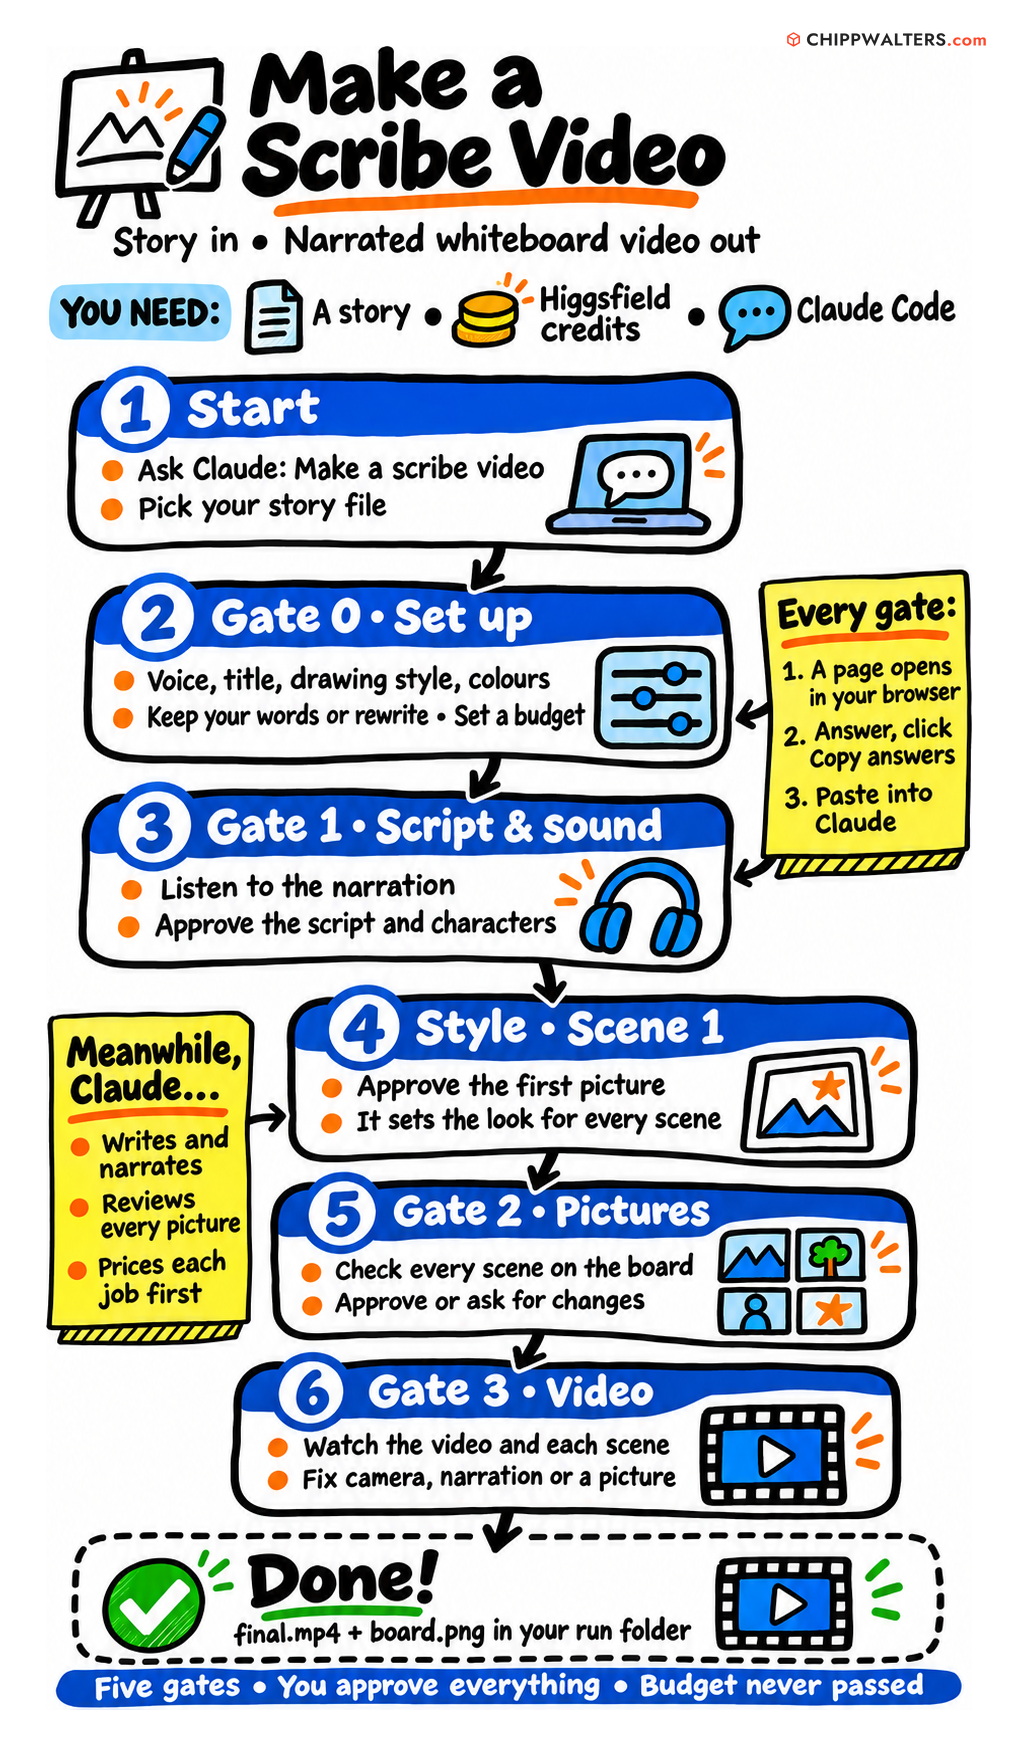
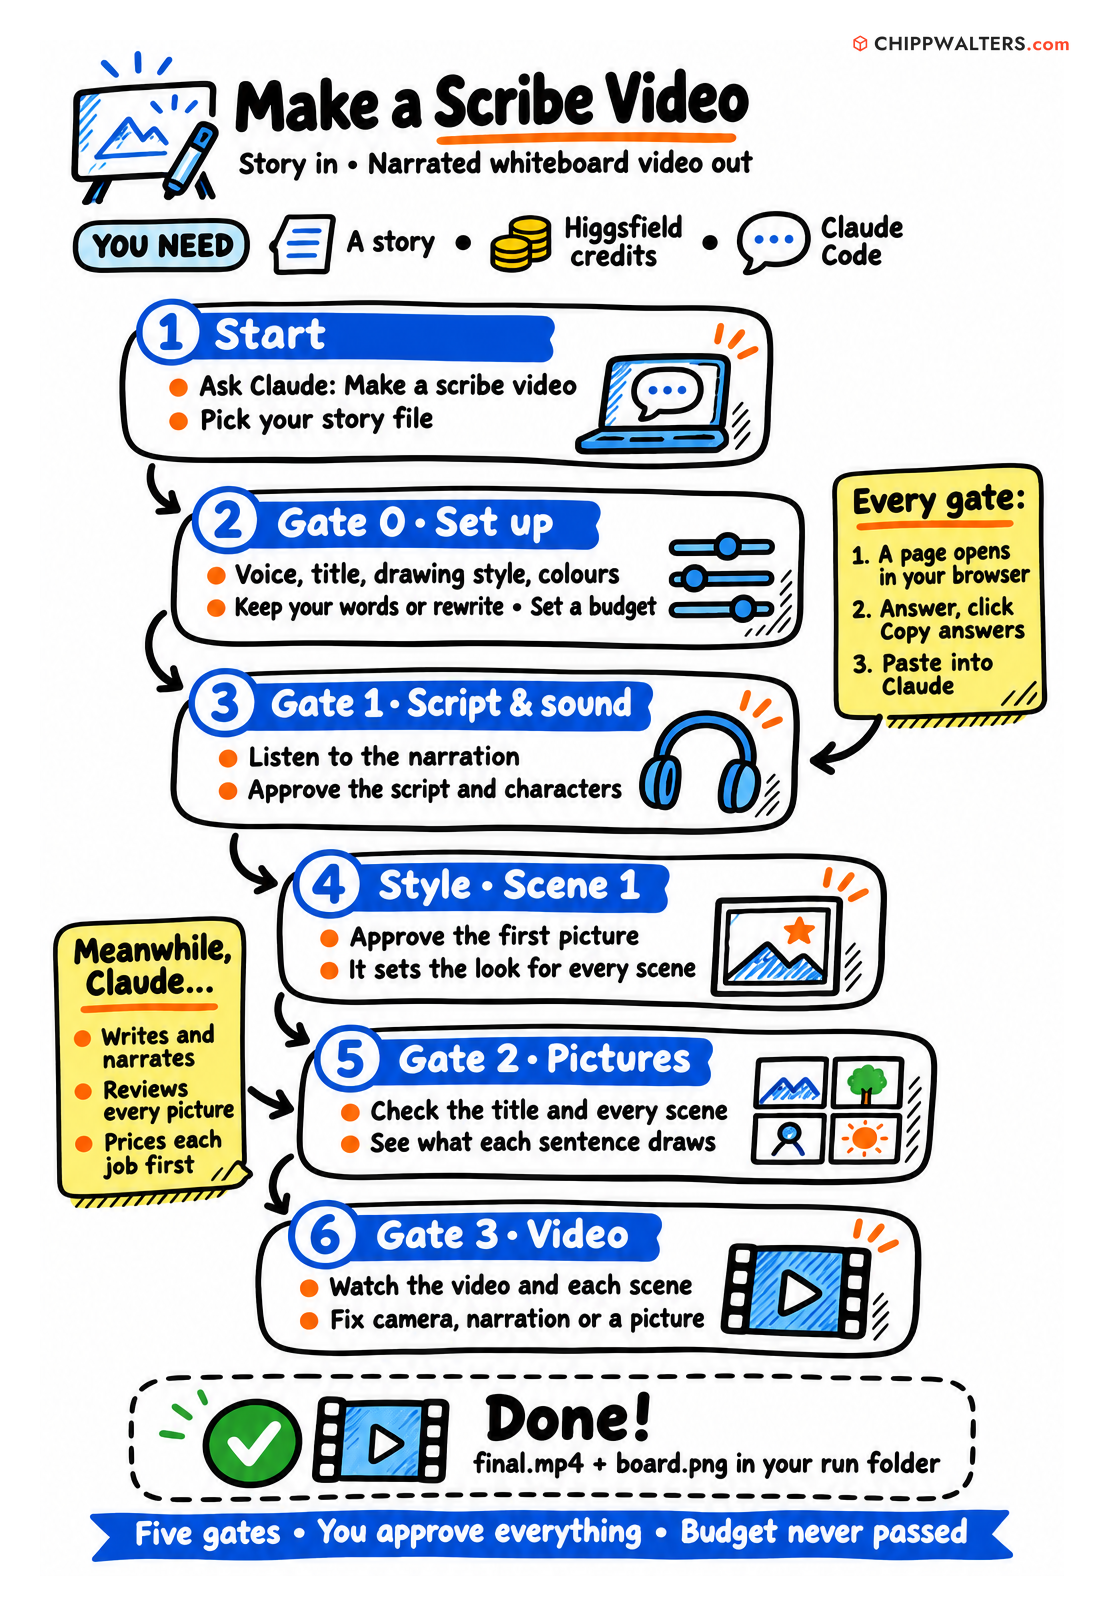
Docs: a screenshot of every gate, the checks that run on their own, Gate 2 fixed
The guide and README said Gate 2 shows the board; it shows the title card, every
scene and each sentence's part of its picture (the board is built after Gate 2).
The workflow infographic is redrawn to match. New: a screenshot of each gate page,
"Checks that run on their own", costs from three test runs, two troubleshooting
entries. The tutorial video link is a placeholder (TUTORIAL-VIDEO-URL) until the
video is uploaded.

diff --git a/docs/GUIDE.md b/docs/GUIDE.md
@@ -2,6 +2,8 @@
 
 The scribeboard-higgsfield plugin turns a story into a narrated whiteboard video inside Claude Code. Claude writes the script, Higgsfield draws the pictures and speaks the narration, and your computer builds the drawing animation and the video. You approve the work at five points, called gates.
 
+**[Watch the 8-minute tutorial](TUTORIAL-VIDEO-URL)**: one story, from file to finished video, with every gate on screen.
+
 This guide has three parts:
 
 1. **Install:** one sentence to Claude; it does the rest and asks before installing anything.
@@ -61,15 +63,25 @@ Your settings go in `%LOCALAPPDATA%\scribe-higgsfield\settings.json`. Plugin upd
 ### What you need
 
 - **A story.** A text or Markdown file. Short is fine: a 70-word story makes a video of about 40 seconds.
-- **Higgsfield credits.** Each picture and each spoken sentence costs credits. A test run with three scenes, a title card and six sentences cost 21.1 credits.
+- **Higgsfield credits.** Each picture and each spoken sentence costs credits. Three test runs, retries included, all with Nano Banana pictures:
+
+| Run | Scenes | Sentences | Video | Credits |
+|---|---|---|---|---|
+| An early test story | 3 | 6 | 38 s | 21.1 |
+| The Waggle Dance (68 words), first run | 3 | 6 | 36 s | 18.5 |
+| The Waggle Dance, second run | 4 | 6 | 44 s | 24.3 |
 
 ### How every gate works
 
 1. A page opens in your browser.
 2. Answer its questions, then click **Copy answers**. The button refuses while a required question is blank.
-3. Paste the answers into Claude Code.
+3. Paste the answers into Claude Code and send them.
 
-Claude records your answers and moves on. Nothing that costs credits happens before the page that allows it.
+![The answers pasted into Claude Code's message box](images/paste-answers.png)
+
+Claude records your answers and moves on. If a required answer is missing, it asks you again rather than guessing. Nothing that costs credits happens before the page that allows it.
+
+If **Copy answers** doesn't reach your clipboard (some browsers block it), the page selects the answers for you: press **Ctrl+C**, then paste.
 
 ### 1. Start
 
@@ -87,21 +99,31 @@ Choose:
 - each character: an optional character sheet, from a description or from photos
 - your credit budget
 
+Each voice has a sample to play, and each style and set of colours has a sample card.
+
+![Gate 0: choosing the colours from their sample cards](images/gate0-start.png)
+
 ### 3. Gate 1: script and sound
 
-Claude records the narration in the voice you chose and makes any character sheets. The page plays the narration and shows each sheet in your colours. Approve the script and the sheets, or say what to change, and set the final budget.
+A writer splits the story into paragraphs and sentences; each paragraph becomes one scene. If you kept your words, a checker confirms that not one word changed. Claude records each sentence in the voice you chose and makes any character sheets. The page plays every recorded line and shows each sheet in your colours. Approve the script and the sheets, or say what to change, and set the final budget. The budget question now shows the estimate for this video.
+
+![Gate 1: each paragraph with its recorded lines](images/gate1-script.png)
 
 ### 4. Style: scene 1
 
 Higgsfield draws the first scene alone. Approve it, or say what to change. This picture sets the look for every other scene and for the title card.
 
+![The style page: scene 1, which every later picture copies](images/style-scene1.png)
+
 ### 5. Gate 2: pictures
 
-Higgsfield draws the remaining scenes and the title card. A separate reviewer checks each picture against the script before you see it. The page shows every scene on the board. Approve them, or ask for changes to any one.
+Higgsfield draws the remaining scenes and the title card. A separate reviewer checks each picture against the script before you see it. The page shows the title card and every scene, then each sentence's part of its picture: the part the pen draws while that sentence is spoken, with the rest greyed out. Approve them, or ask for changes to any one.
+
+![Gate 2: the part of scene 1 drawn during its first sentence](images/gate2-images.png)
 
 ### 6. Gate 3: video
 
-Claude builds the video. The page shows the full video, the board and one clip for each scene. Each clip is cut on the narration, so every sentence plays whole. Approve the video, or edit a scene. An edit names what to fix:
+Claude packs every drawing onto one board in story order and builds the video; neither step costs credits. The page shows the full video, the board and one clip for each scene. Each clip is cut on the narration, so every sentence plays whole. Approve the video, or edit a scene. An edit names what to fix:
 
 - **Camera:** the moves and framing
 - **Narration:** a sentence's words or how a word is said
@@ -109,13 +131,26 @@ Claude builds the video. The page shows the full video, the board and one clip f
 
 Each kind of edit goes to its own fix. If a sentence was recorded again after Gate 1, the page says so.
 
+![Gate 3: the finished video, drawing the story](images/gate3-video.png)
+
 ### Done
 
 The finished files are in the story's folder:
 
 - `videos/final.mp4`: the video
+- `videos/Scene-01.mp4`, `Scene-02.mp4`, …: one clip per scene
 - `videos/board.png`: every scene on one board
 - `credits.json`: every paid job and what it cost
+
+### Checks that run on their own
+
+Between the gates, the plugin checks its own work and redoes what fails. Anything still failing after its last try reaches you marked as flagged, for you to approve or change.
+
+- **Each recorded sentence.** A speech check listens to every take and compares it word for word with the script. A take that stops mid-word is asked for again with a spare word after it, which is then trimmed off. Each sentence gets up to three takes, plus one more if every take stopped short.
+- **Each picture.** A fresh reviewer, who never saw earlier attempts, checks it against the script: every drawing, every label, the spelling and the style. A picture that fails gets a written fix, and that fix goes into the next attempt. Nobody edits prompts by hand. Each scene gets up to five attempts.
+- **The title card.** It is checked automatically (enough ink, nothing near the edge) and then by its own reviewer.
+
+Retries cost credits like any other job and count against your budget. In the second Waggle Dance run, two narration retakes and two extra title attempts added 6.7 of its 24.3 credits.
 
 ## Credits
 

diff --git a/README.md b/README.md
@@ -6,6 +6,8 @@ You give Claude a short story. Claude writes the script, Higgsfield draws the pi
 
 Version 0.4.1 · Windows · [Full guide](docs/GUIDE.md) · [Changelog](CHANGELOG.md) · [GPL-3.0 license](LICENSE)
 
+**[Watch the 8-minute tutorial](TUTORIAL-VIDEO-URL)**: one story, from file to finished video, with every gate on screen.
+
 ![Make a scribe video](docs/images/scribe-workflow.png)
 
 ## Install
@@ -47,7 +49,7 @@ Then pick your story file: a text or Markdown file, a paragraph or a few. Claude
 | **Gate 0: set up** | keep your words or let the writer rewrite them; the narrator's voice; the title; the image model, drawing style and colours; any characters; your credit budget |
 | **Gate 1: script and sound** | listen to the narration, approve the script and any character sheets, set the final budget |
 | **Style: scene 1** | approve the first picture, which sets the look of all the others |
-| **Gate 2: pictures** | check every scene on the board; approve or ask for changes |
+| **Gate 2: pictures** | check the title card, every scene, and the part of each picture drawn during each sentence; approve or ask for changes |
 | **Gate 3: video** | watch the video and each scene; approve, or fix the camera, the narration or a picture |
 
 The finished `final.mp4` and `board.png` land in your story's folder. The [guide](docs/GUIDE.md#make-a-video) has every step.
@@ -59,7 +61,7 @@ You pay Higgsfield in credits; the plugin itself is free to use. Measured prices
 - **A picture:** about 3 credits (Nano Banana 2.1 at 4K) or 4.25 (GPT Image 2.5 at 4K, high quality).
 - **A narrated sentence:** about 0.5 credits.
 
-A 38-second test video, with three scenes, a title card and six sentences, cost 21.1 credits, retries included.
+Test videos of 36 to 44 seconds, with three or four scenes, a title card and six sentences, cost 18.5 to 24.3 credits, retries included.
 
 **Your credits are guarded.** Every job is priced before it is paid for and booked against the budget you set; no job starts if it would take you past it. The plugin's hooks refuse any Higgsfield picture or audio call that its scripts did not book while a video is being made, and a job interrupted halfway is checked, never paid for twice.
 
@@ -85,6 +87,8 @@ Then restart Claude Code. Your settings and installed tools stay as they are.
 - **Check the setup any time:** run `/scribeboard-higgsfield:setup` or ask Claude to "check the scribeboard setup". It shows what is ready and installs nothing without asking.
 - **`python` opens the Microsoft Store:** that's Windows' placeholder, not Python. The setup installs a real Python 3.12 (or uses yours) and puts it first on your PATH; restart Claude Code afterwards.
 - **Claude can't see the Higgsfield tools:** restart Claude Code, run `/mcp`, pick **higgsfield** and sign in.
+- **Copy answers didn't reach the clipboard:** some browsers block it. The page then selects the answers for you; press Ctrl+C and paste them into Claude Code.
+- **A sentence or picture was made twice:** that's the plugin's own checks redoing work that failed (a narration take that stopped mid-word, a picture its reviewer rejected). Retries count against your budget like any other job.
 - **"denied" on a Higgsfield call:** that's the credit guard refusing a call no script booked. Ask Claude what the next step of the video is; it continues from where it stopped.
 
 ## Uninstall

diff --git a/CHANGELOG.md b/CHANGELOG.md
@@ -1,5 +1,11 @@
 # Changelog
 
+## Unreleased (docs)
+
+- **Guide:** a screenshot of every gate page and of the answers pasted into Claude Code; a new "Checks that run on their own" section (narration take checks, picture and title reviews, what retries cost); costs from three test runs; the finished scene clips listed.
+- **Fixed:** the guide and README said Gate 2 shows the board. It shows the title card, every scene and each sentence's part of its picture; the board is built after Gate 2.
+- **README:** troubleshooting for a blocked Copy answers and for work made twice; a link to the tutorial video.
+
 ## 0.4.1 (2026-11-12)
 
 - **Licensed under GPL-3.0-or-later.**
